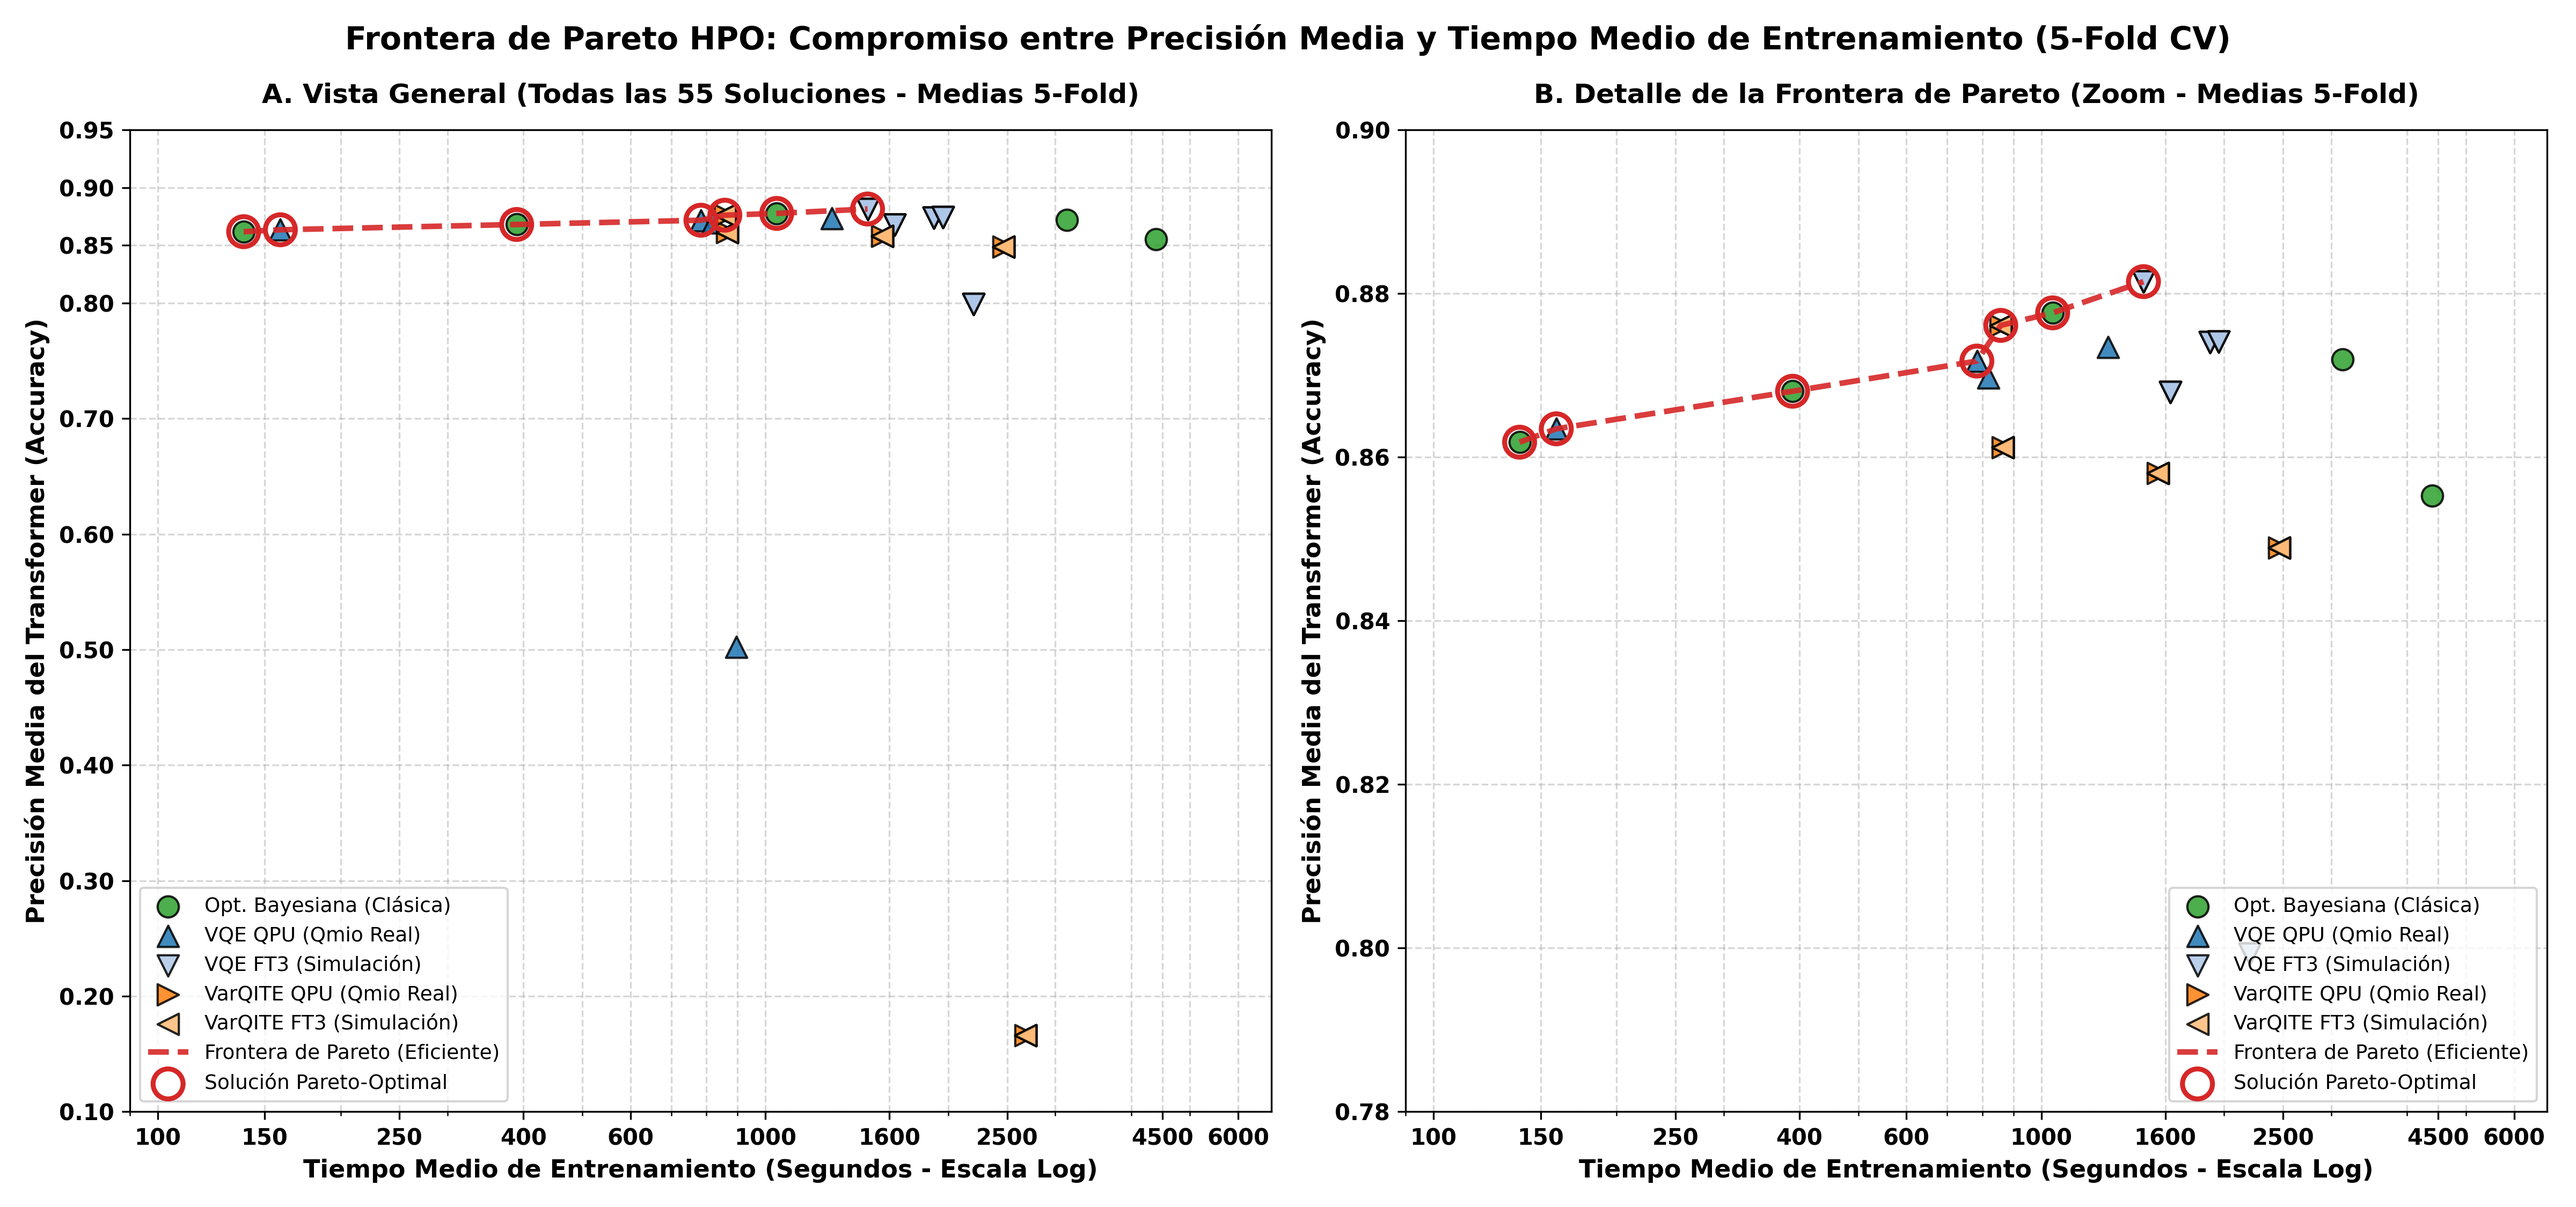
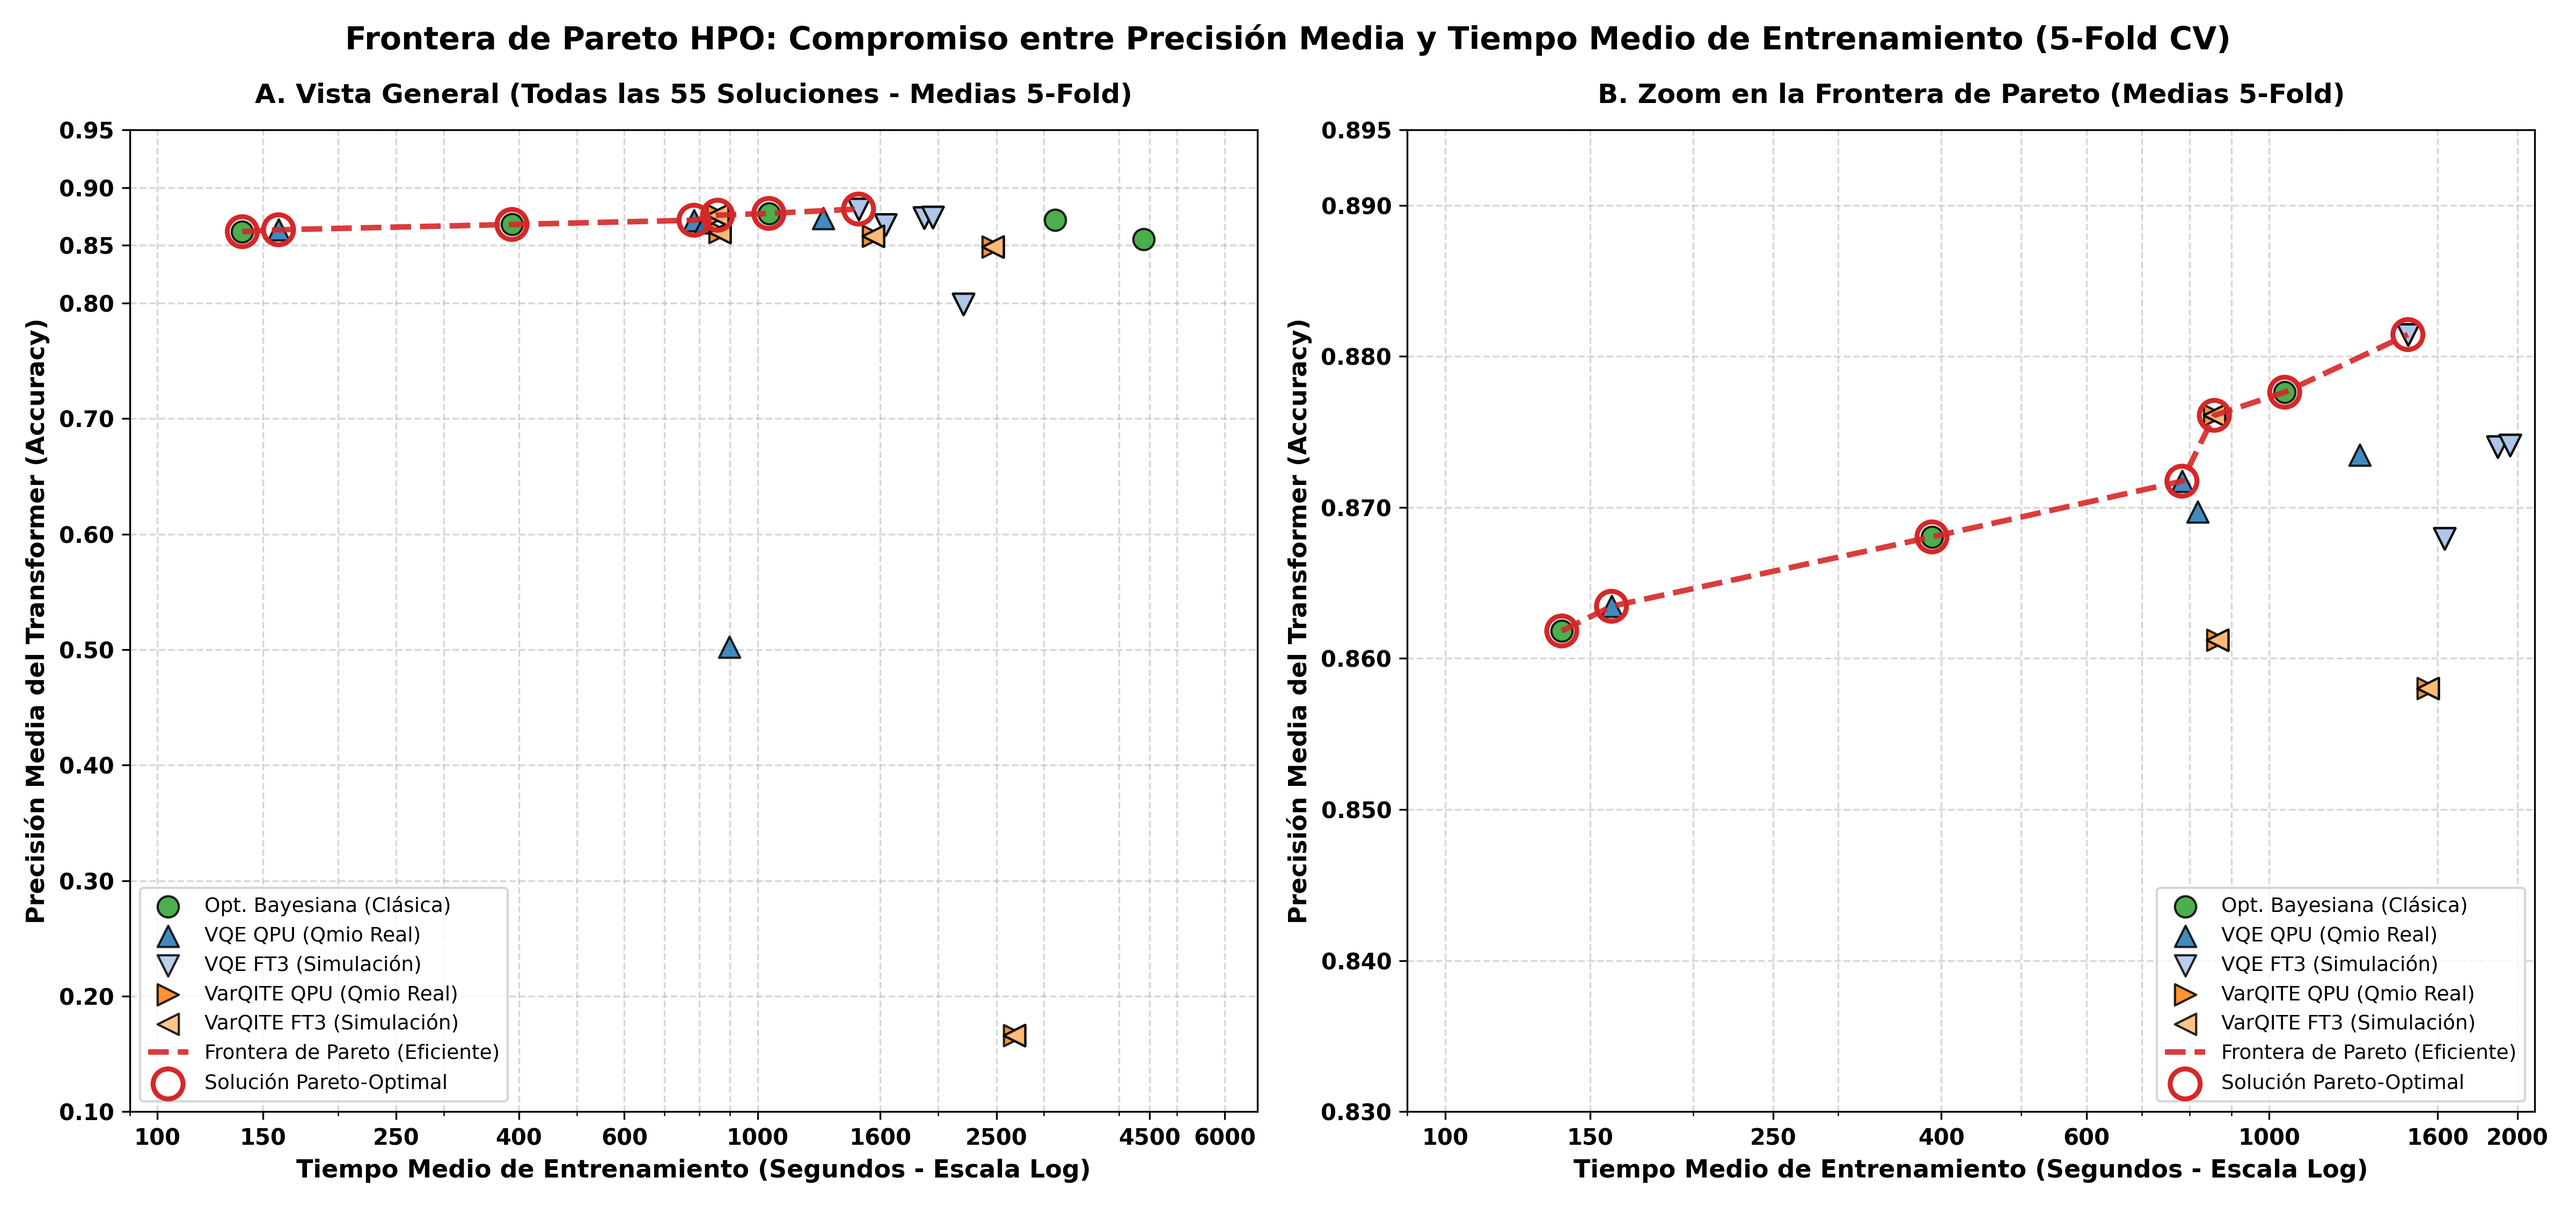
Optimize Pareto frontier zoom window in subplot B to make optima and boundary highly visible

diff --git a/src/generate_plots.py b/src/generate_plots.py
@@ -428,10 +428,9 @@ def main():
     ax1.set_title('A. Vista General (Todas las 55 Soluciones - Medias 5-Fold)', fontsize=12, fontweight='bold', pad=12)
     ax1.legend(fontsize=9, loc='lower left')
 
-    # Subplot 2: Zoom on the Pareto frontier (Accuracy > 0.70)
+    # Subplot 2: Zoom on the active Pareto frontier area (X < 2000, Y > 0.83)
     ax2.grid(True, linestyle='--', alpha=0.5, zorder=0, which='both')
-    filtered_df = reales_df[reales_df['Final_Accuracy'] > 0.70]
-    plot_scatter_on_ax(ax2, filtered_df)
+    plot_scatter_on_ax(ax2, reales_df)
     
     if pareto_front:
         pareto_x, pareto_y = zip(*pareto_front)
@@ -445,18 +444,19 @@ def main():
         )
 
     ax2.set_xscale('log')
-    ax2.set_xticks(ticks_x)
-    ax2.set_xticklabels([str(t) for t in ticks_x], fontsize=10, fontweight='bold')
-    ax2.set_xlim(90, 6800)
-    ax2.set_ylim(0.78, 0.90)
+    ticks_x_zoom = [100, 150, 250, 400, 600, 1000, 1600, 2000]
+    ax2.set_xticks(ticks_x_zoom)
+    ax2.set_xticklabels([str(t) for t in ticks_x_zoom], fontsize=10, fontweight='bold')
+    ax2.set_xlim(90, 2100)
+    ax2.set_ylim(0.83, 0.895)
     
-    ticks_y_ax2 = [0.78, 0.80, 0.82, 0.84, 0.86, 0.88, 0.90]
+    ticks_y_ax2 = [0.83, 0.84, 0.85, 0.86, 0.87, 0.88, 0.89, 0.895]
     ax2.set_yticks(ticks_y_ax2)
-    ax2.set_yticklabels([f"{val:.2f}" for val in ticks_y_ax2], fontsize=10, fontweight='bold')
+    ax2.set_yticklabels([f"{val:.3f}" for val in ticks_y_ax2], fontsize=10, fontweight='bold')
     
     ax2.set_xlabel('Tiempo Medio de Entrenamiento (Segundos - Escala Log)', fontsize=11, fontweight='bold')
     ax2.set_ylabel('Precisión Media del Transformer (Accuracy)', fontsize=11, fontweight='bold')
-    ax2.set_title('B. Detalle de la Frontera de Pareto (Zoom - Medias 5-Fold)', fontsize=12, fontweight='bold', pad=12)
+    ax2.set_title('B. Zoom en la Frontera de Pareto (Medias 5-Fold)', fontsize=12, fontweight='bold', pad=12)
     ax2.legend(fontsize=9, loc='lower right')
 
     fig.suptitle('Frontera de Pareto HPO: Compromiso entre Precisión Media y Tiempo Medio de Entrenamiento (5-Fold CV)', fontsize=14, fontweight='bold', y=0.98)
